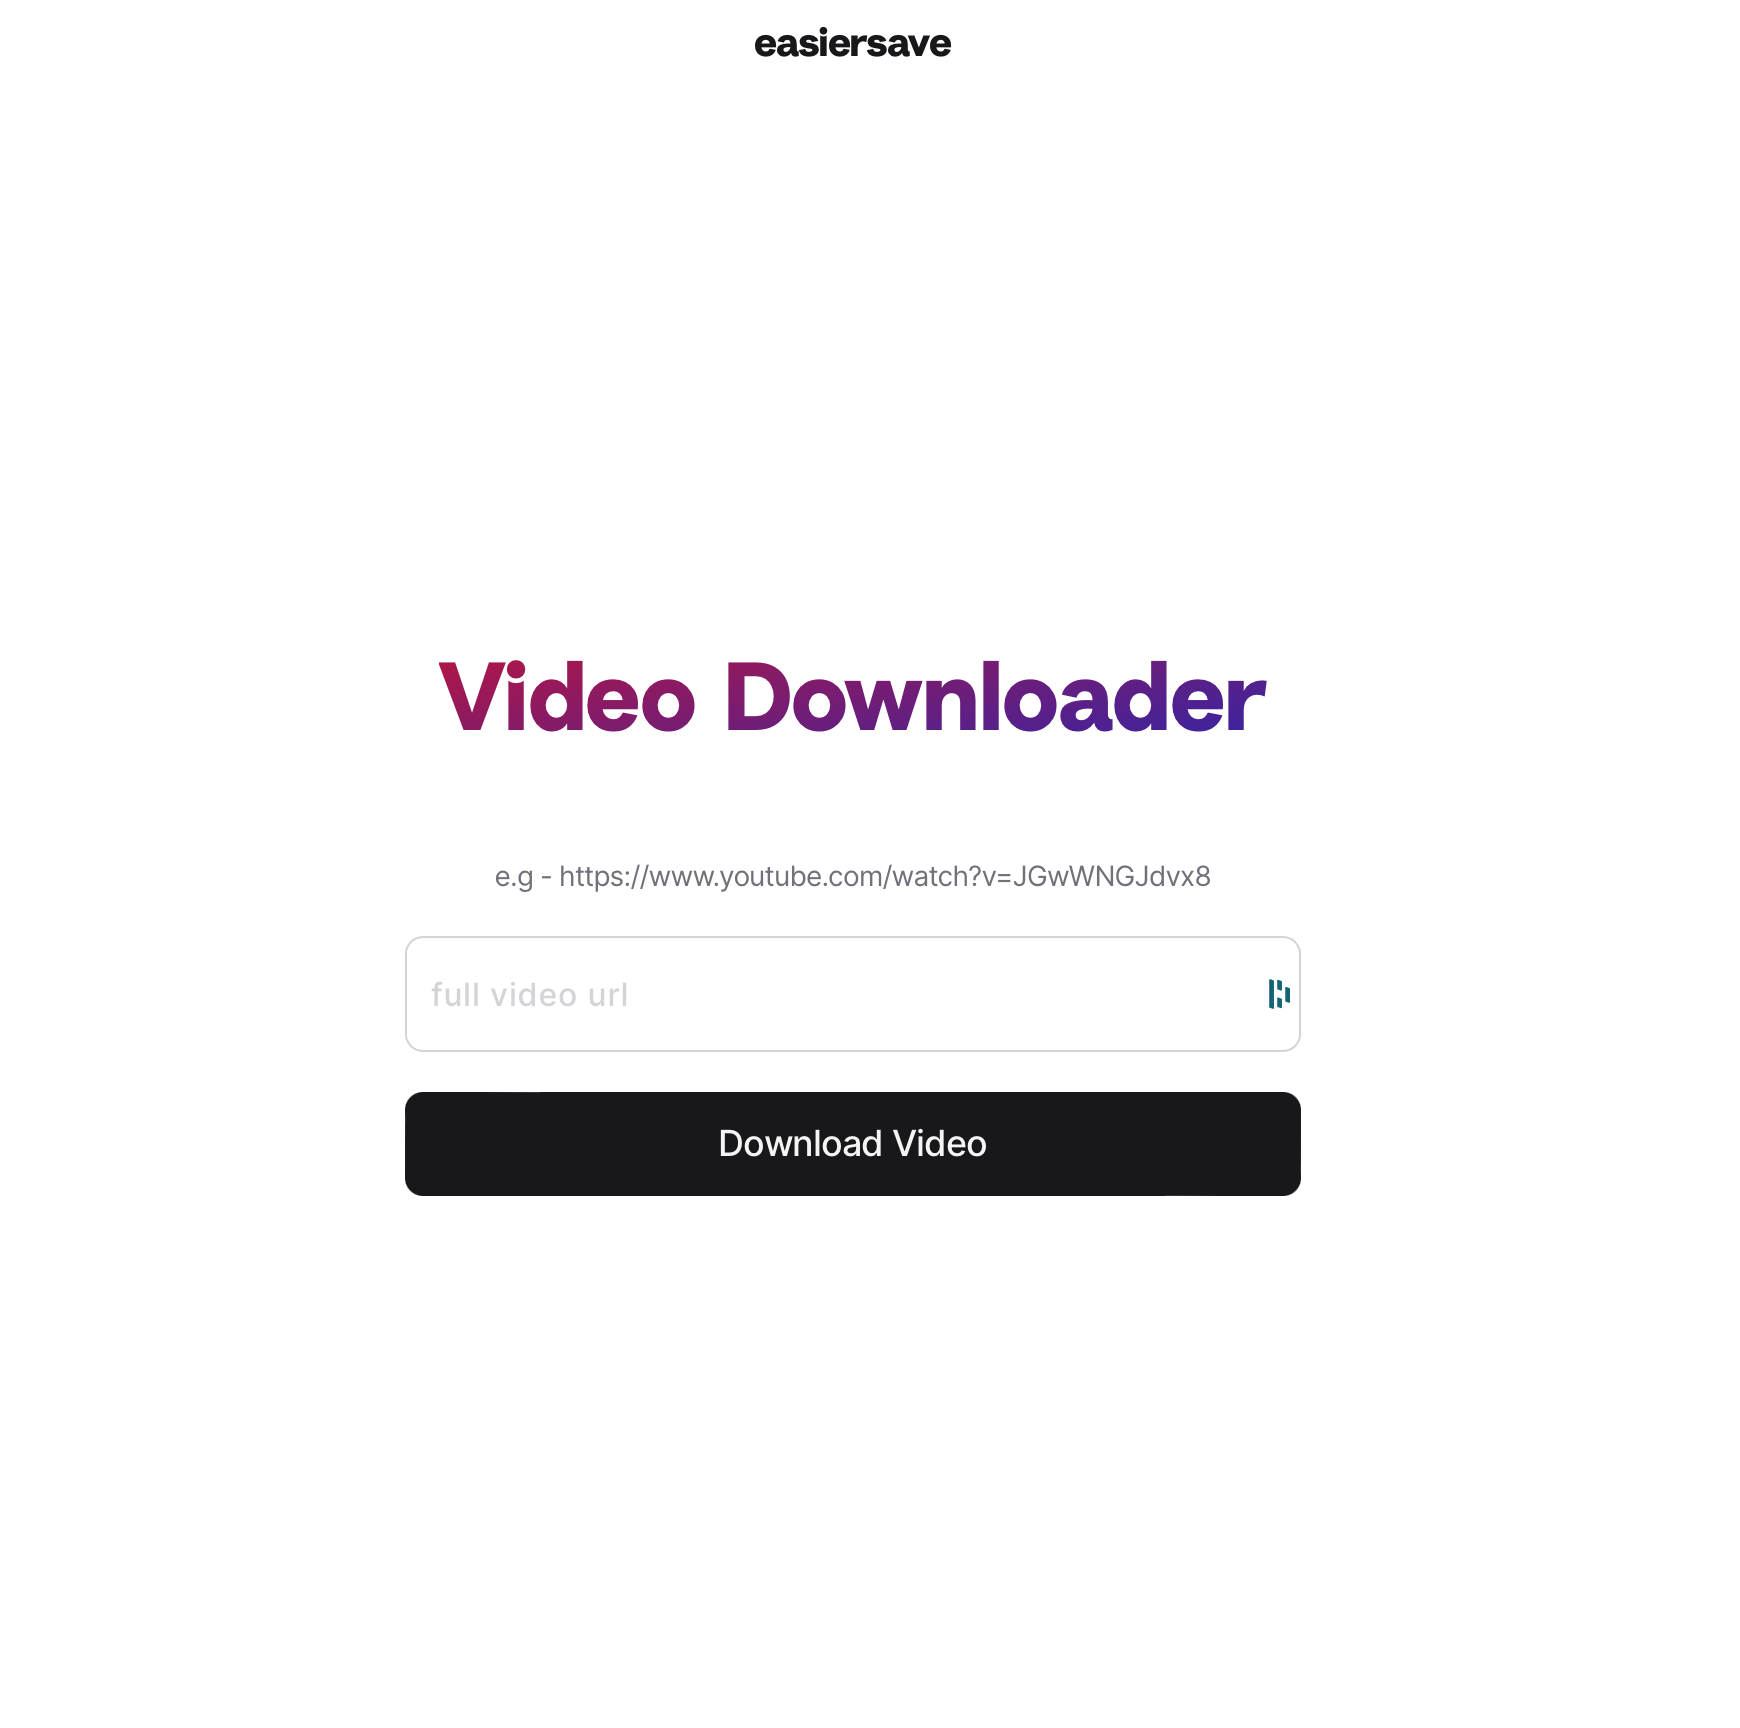
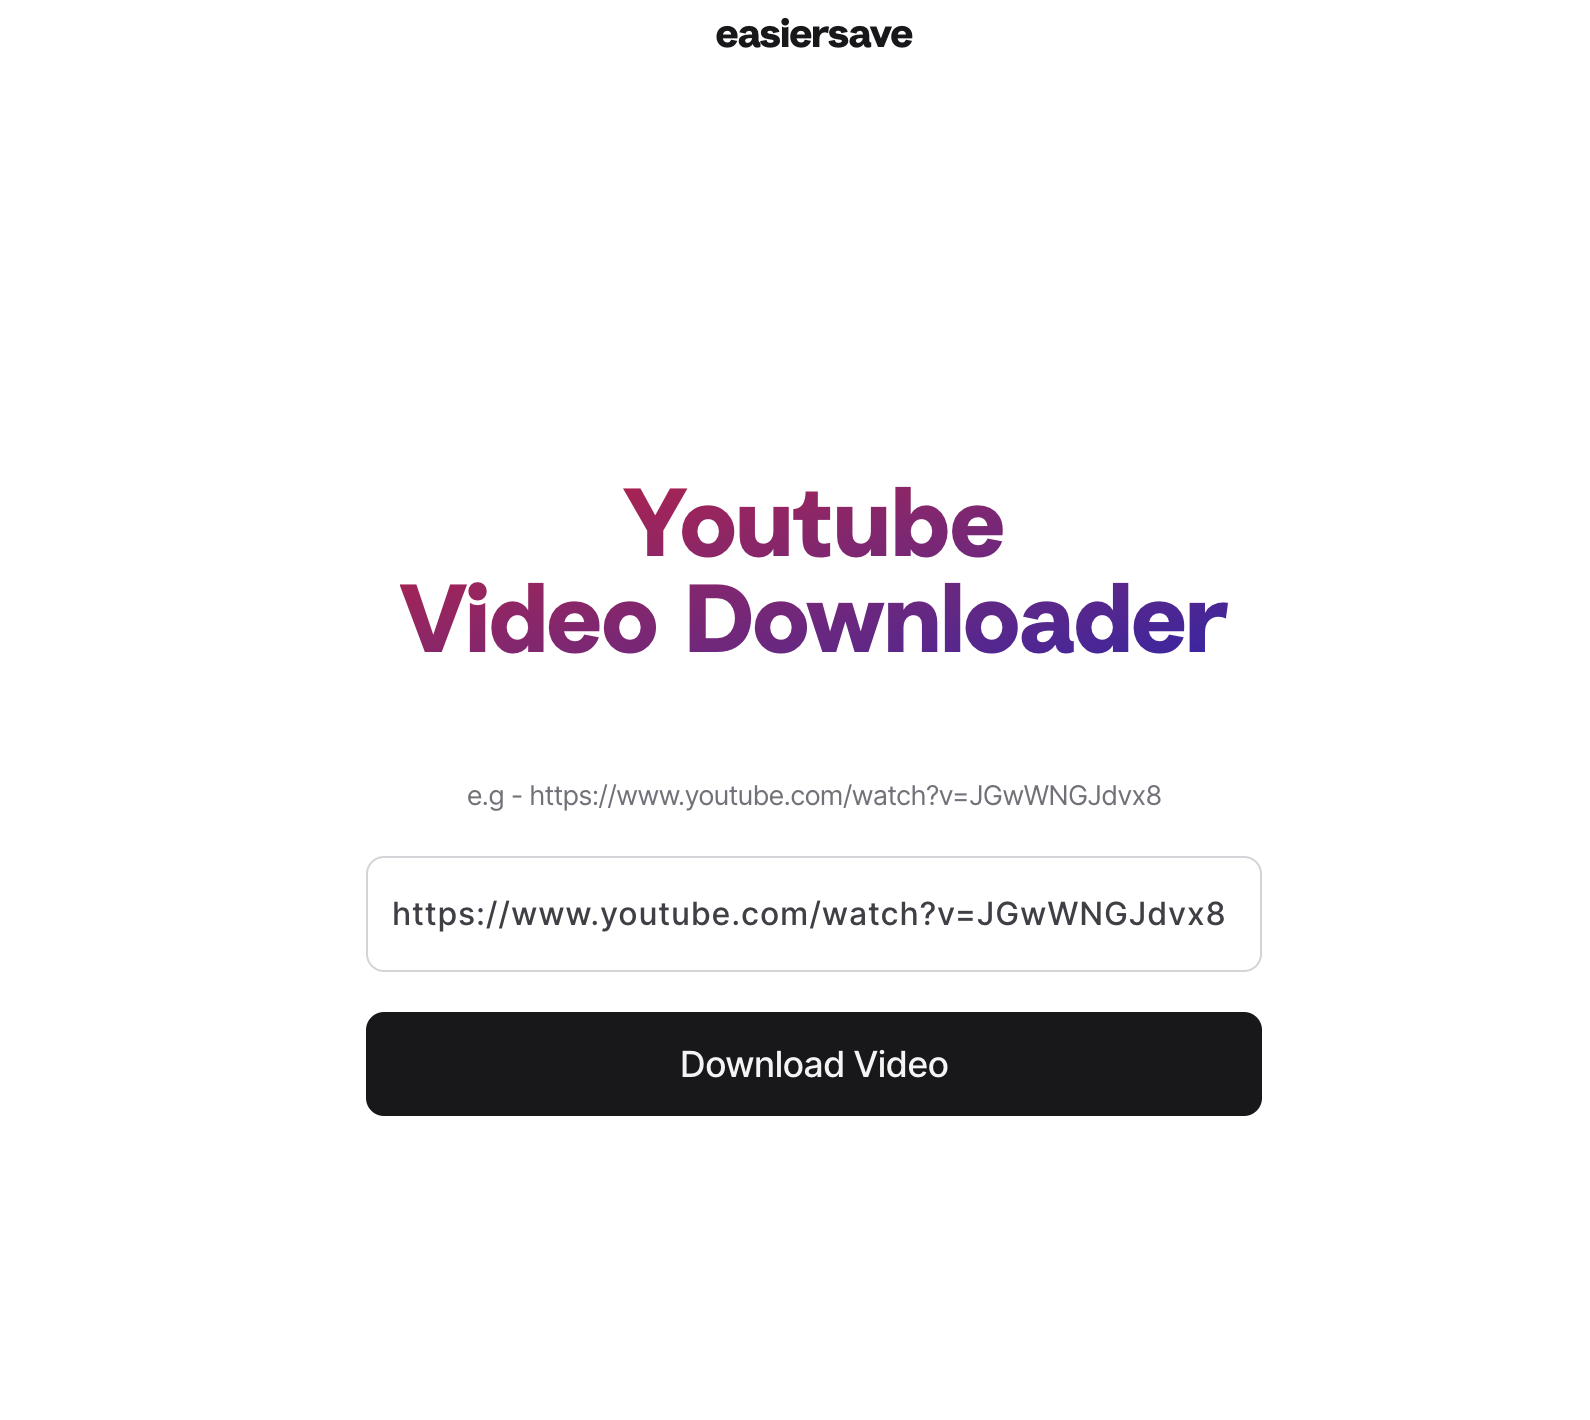
thumbnail update

diff --git a/pages/api/downloader.js b/pages/api/downloader.js
@@ -12,21 +12,23 @@ export default async function downloader(req, res) {
   const { videoUrl } = req.query
 
   if (urlChecker.test(videoUrl)) {
-    try{
-
+    try {
       let info = await ytdl.getInfo(videoUrl)
-      
-      const url = info.formats.filter((video)=>video.hasVideo && video.hasAudio).sort((a,b) => a.width > b.width).pop().url
-      const thumbnail = info.videoDetails.thumbnails.sort((a,b) => a.width > b.width).pop().url
+
+      const url = info.formats
+        .filter((video) => video.hasVideo && video.hasAudio)
+        .sort((a, b) => a.width > b.width)
+        .pop().url
+      const thumbnail = info.videoDetails.thumbnails
+        .sort((a, b) => a.width > b.width)
+        .pop().url
       const title = info.videoDetails.title
-      
-      return res.status(200).json({url,thumbnail,title})
-    }
-    catch (error){
+
+      return res.status(200).json({ url, thumbnail, title })
+    } catch (error) {
       console.log(error)
       return res.status(404).json({
-        error:
-          "Unable to download video. Please try a different Youtube URL.",
+        error: "Unable to download video. Please try a different Youtube URL.",
       })
     }
   } else {

diff --git a/pages/index.jsx b/pages/index.jsx
@@ -32,7 +32,7 @@ export default function Home() {
   const onSubmit = async ({ videoUrl }) => {
     setIsLoading(true)
 
-    const { fileUrl, thumbnail, title, error } = await fetch(
+    const { url:fileUrl, thumbnail, title, error } = await fetch(
       `api/downloader?videoUrl=${videoUrl.trim()}`,
     ).then((res) => res.json())
 
@@ -55,11 +55,11 @@ export default function Home() {
       >
         <h1
           tw="
-          text-4xl sm:text-5xl text-center pt-10 mb-6
+          text-4xl sm:text-5xl text-center pt-10 mb-6 
           text-transparent bg-clip-text bg-gradient-to-br from-red-600  to-indigo-800
         "
         >
-          Video Downloader
+          Youtube <br/> Video Downloader
         </h1>
 
         <small tw="mt-8 text-neutral-5 px-2">
